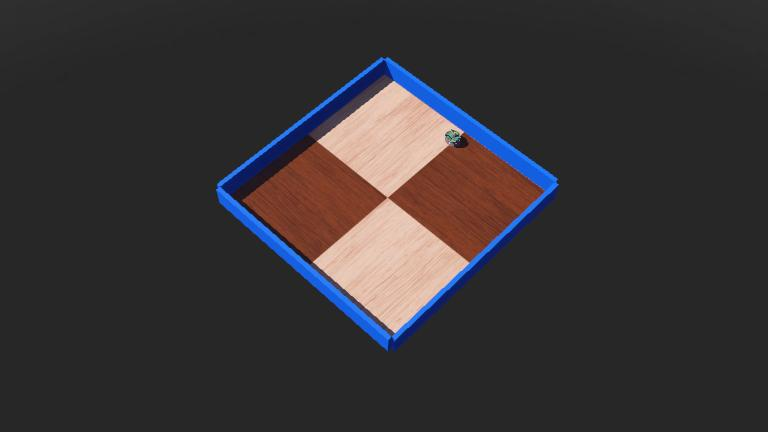
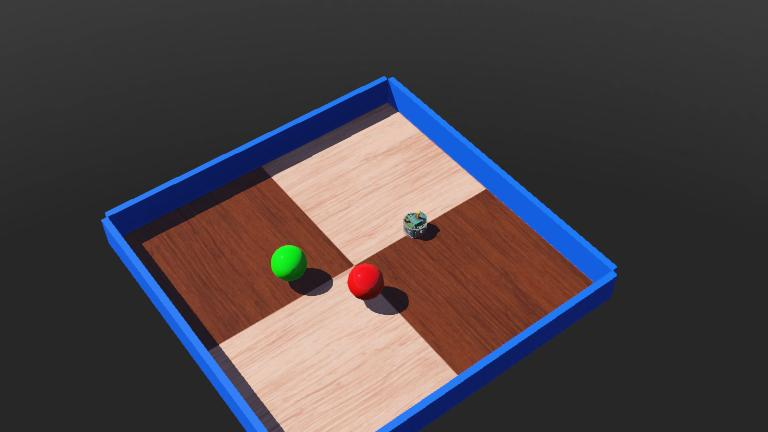
Set up Recognition Camera

diff --git a/my_first_simulation/controllers/epuck_blob_recognition/epuck_blob_recognition.cpp b/my_first_simulation/controllers/epuck_blob_recognition/epuck_blob_recognition.cpp
@@ -7,6 +7,13 @@
 // You may need to add webots include files such as
 // <webots/DistanceSensor.hpp>, <webots/Motor.hpp>, etc.
 // and/or to add some other includes
+#include <iostream>
+#define TIME_STEP 64
+#define MAX_SPEED 6.28
+
+#include <cstdio>
+#include <webots/Camera.hpp>
+#include <webots/Motor.hpp>
 #include <webots/Robot.hpp>
 
 // All the webots classes are defined in the "webots" namespace
@@ -31,6 +38,25 @@ int main(int argc, char **argv) {
   //  Motor *motor = robot->getMotor("motorname");
   //  DistanceSensor *ds = robot->getDistanceSensor("dsname");
   //  ds->enable(timeStep);
+
+  // Webots Camera
+  Camera *cam = robot->getCamera("camera");
+  cam->enable(TIME_STEP);
+  Camera *colorCam = robot->getCamera("colorCamera");
+  colorCam->recognitionEnable(TIME_STEP);
+  // colorCam->enableRecognitionSegmentation();
+  colorCam->enable(TIME_STEP);
+  std::cout << colorCam->getName() << std::endl;
+
+  Motor *leftMotor = robot->getMotor("left wheel motor");
+  Motor *rightMotor = robot->getMotor("right wheel motor");
+
+  // unlock the motors to control by velocity
+  std::cout << "UNLOCKING MOTORS" << std::endl;
+  leftMotor->setPosition(INFINITY);
+  rightMotor->setPosition(INFINITY);
+  leftMotor->setVelocity(0.0);
+  rightMotor->setVelocity(0.0);
 
   // Main loop:
   // - perform simulation steps until Webots is stopping the controller
